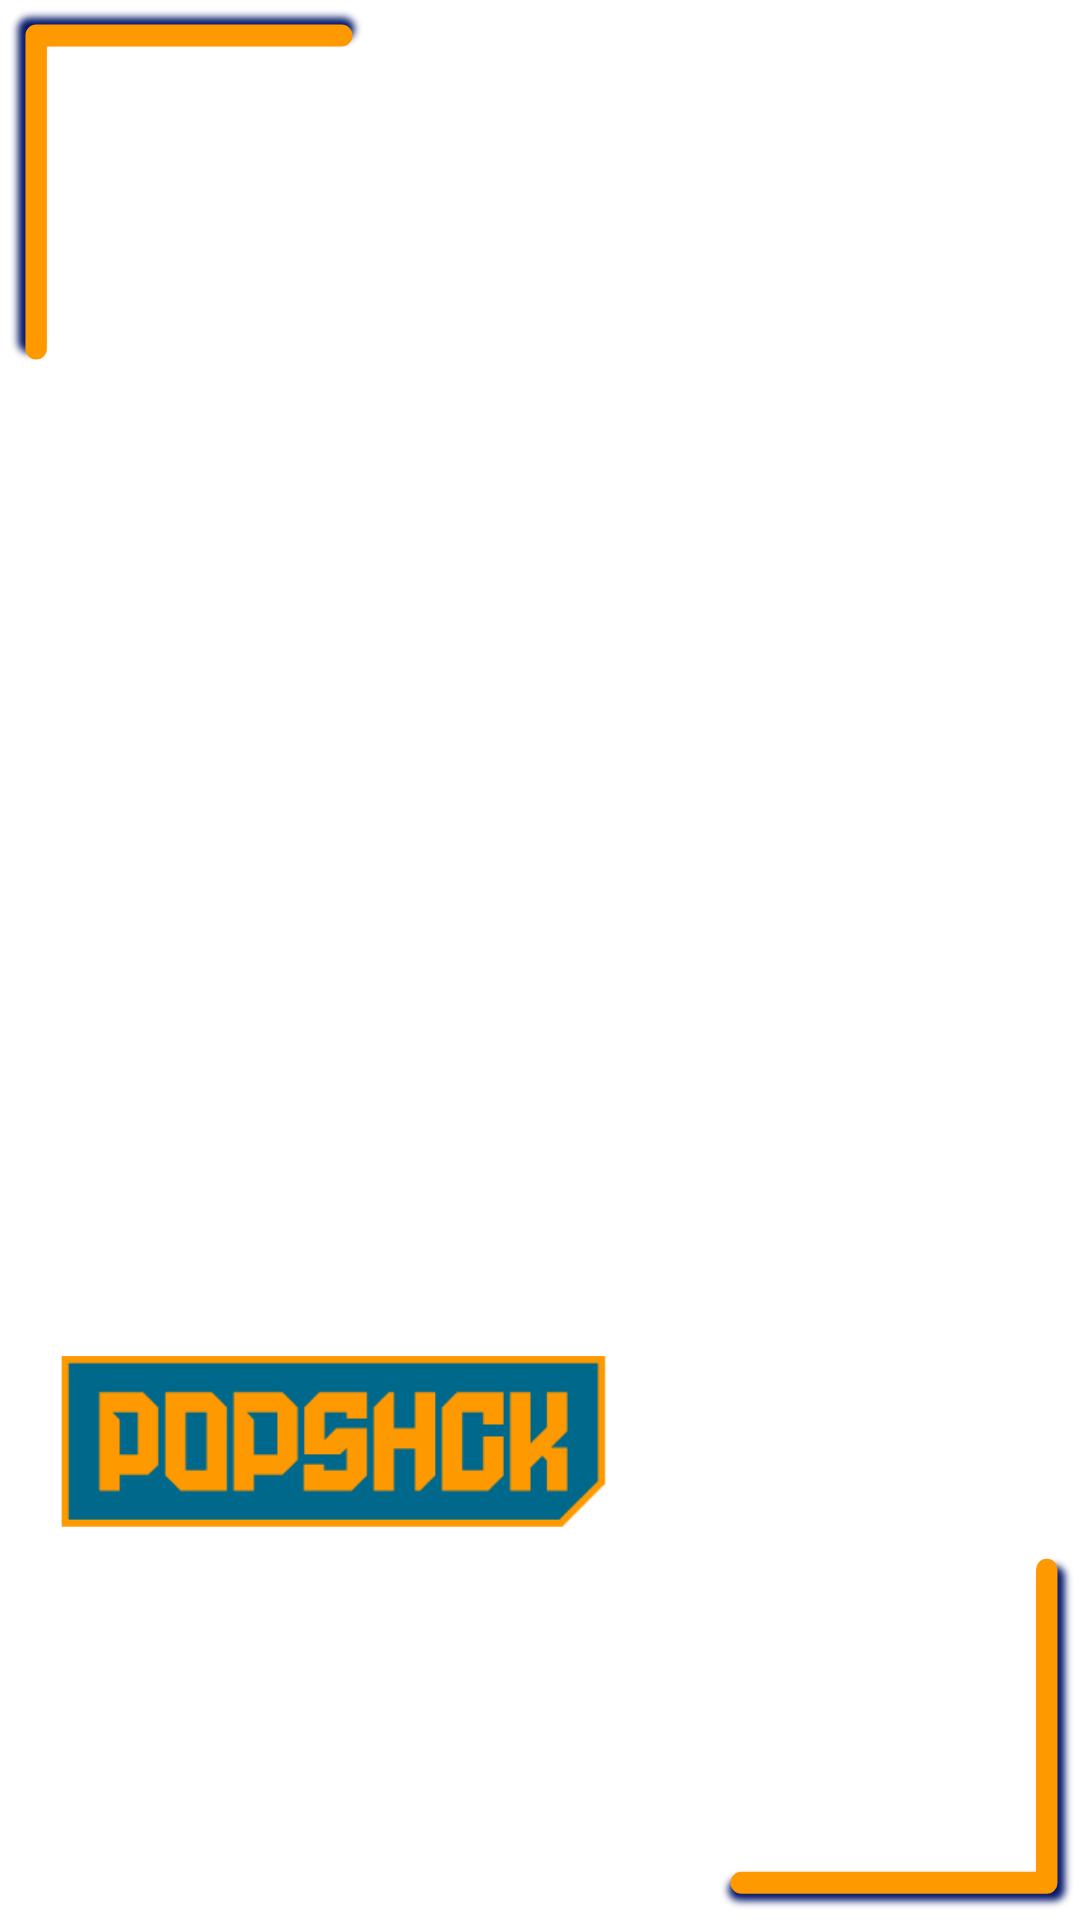
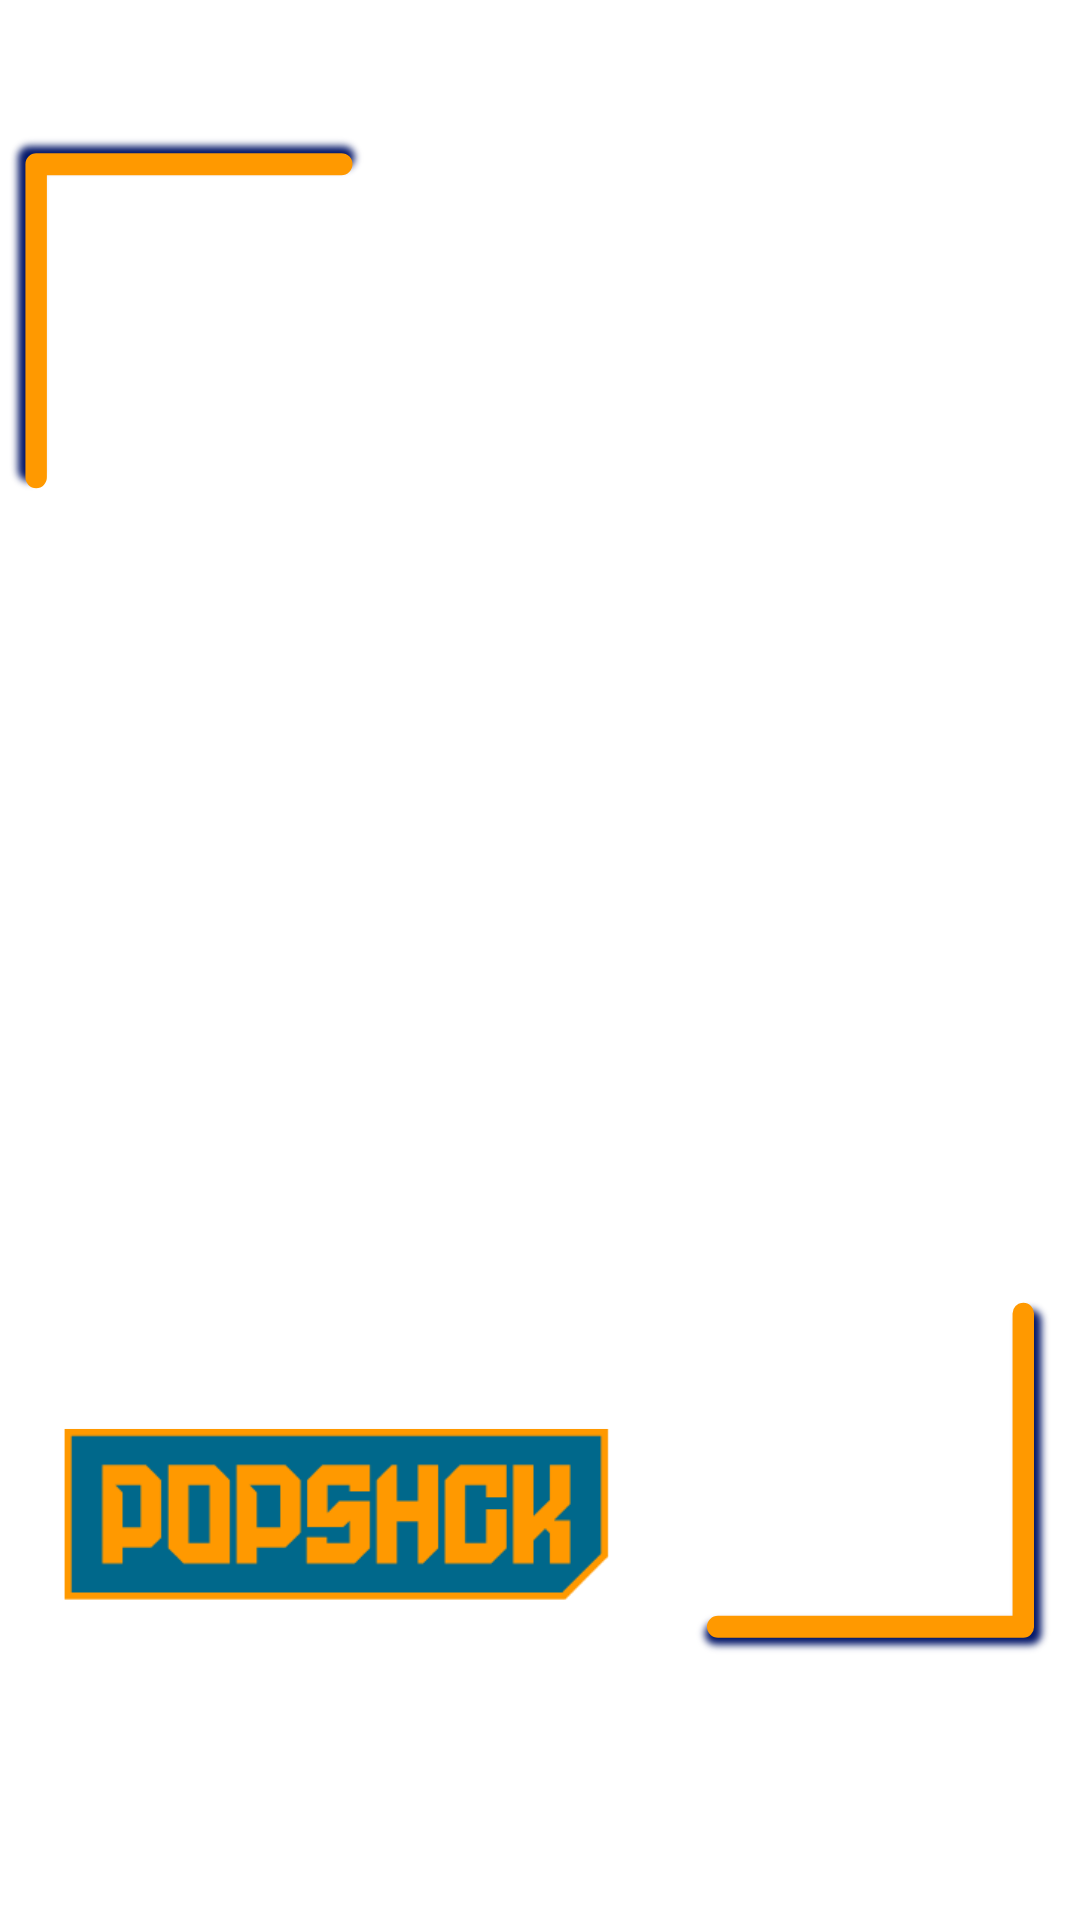
feat: wire Instagram Story posting + igStoryId into social pipeline
- publisher/index.ts: call postStoryToInstagram (9:16) concurrently
  alongside the existing feed post (1:1) — stories were generated and
  uploaded to WP but never posted to IG
- SocialPublishResult: add igStoryId field
- orchestrator.ts: persist igStoryId in SocialPost DB record and log
  IG feed + story status separately
- schema.prisma: add igStoryId column to SocialPost model
- Updated pillar story frame assets

Each pipeline run now posts 3 feed posts + 3 stories per pillar
(15 feed + 15 stories = 30 total IG posts per full run).

diff --git a/backend/src/agents/social_media/publisher/index.ts b/backend/src/agents/social_media/publisher/index.ts
@@ -16,6 +16,7 @@
 
 import {
   postToInstagram,
+  postStoryToInstagram,
   postToFacebook,
   postToX,
   postToTikTok,
@@ -24,6 +25,7 @@ import {
 
 export interface SocialPublishResult {
   igPostId?:      string;
+  igStoryId?:     string;
   fbPostId?:      string;
   xPostId?:       string;
   tiktokPostId?:  string;
@@ -44,7 +46,7 @@ export class SocialPublisher {
     caption:       string;
     articleUrl:    string;
   }): Promise<SocialPublishResult> {
-    const { postBuffer, storyBuffer, postImageUrl, caption, articleUrl } = params;
+    const { postBuffer, storyBuffer, postImageUrl, storyImageUrl, caption, articleUrl } = params;
 
     this.log('[SocialPublisher] Dispatching to all platforms concurrently…');
 
@@ -59,8 +61,9 @@ export class SocialPublisher {
     }
 
     // ── Concurrent platform dispatch ─────────────────────────────────────────
-    const [igResult, fbResult, xResult, tiktokResult] = await Promise.allSettled([
+    const [igFeedResult, igStoryResult, fbResult, xResult, tiktokResult] = await Promise.allSettled([
       postToInstagram({ imageUrl: postImageUrl, caption }),
+      postStoryToInstagram({ imageUrl: storyImageUrl }),
       postToFacebook({ imageUrl: postImageUrl, caption }),
       postToX({ imageBuffer: storyBuffer, caption, articleUrl }),
       videoBuffer
@@ -70,11 +73,18 @@ export class SocialPublisher {
 
     const result: SocialPublishResult = {};
 
-    if (igResult.status === 'fulfilled') {
-      result.igPostId = igResult.value;
-      this.log(`[SocialPublisher] ✓ Instagram posted → ID: ${igResult.value}`);
+    if (igFeedResult.status === 'fulfilled') {
+      result.igPostId = igFeedResult.value;
+      this.log(`[SocialPublisher] ✓ Instagram feed posted → ID: ${igFeedResult.value}`);
     } else {
-      this.log(`[SocialPublisher] ✗ Instagram failed: ${igResult.reason}`);
+      this.log(`[SocialPublisher] ✗ Instagram feed failed: ${igFeedResult.reason}`);
+    }
+
+    if (igStoryResult.status === 'fulfilled') {
+      result.igStoryId = igStoryResult.value;
+      this.log(`[SocialPublisher] ✓ Instagram story posted → ID: ${igStoryResult.value}`);
+    } else {
+      this.log(`[SocialPublisher] ✗ Instagram story failed: ${igStoryResult.reason}`);
     }
 
     if (fbResult.status === 'fulfilled') {
@@ -99,7 +109,7 @@ export class SocialPublisher {
     }
 
     const successCount = Object.keys(result).length;
-    this.log(`[SocialPublisher] Complete — ${successCount}/4 platforms succeeded`);
+    this.log(`[SocialPublisher] Complete — ${successCount}/5 platforms succeeded`);
 
     return result;
   }

diff --git a/backend/src/agents/social_media/orchestrator.ts b/backend/src/agents/social_media/orchestrator.ts
@@ -203,6 +203,7 @@ export class SocialMediaOrchestrator {
       status:        anyPosted ? 'POSTED' : 'FAILED',
       postedAt:      anyPosted ? new Date() : undefined,
       igPostId:      socialResult.igPostId,
+      igStoryId:     socialResult.igStoryId,
       fbPostId:      socialResult.fbPostId,
       xPostId:       socialResult.xPostId,
       tiktokPostId:  socialResult.tiktokPostId,
@@ -210,8 +211,8 @@ export class SocialMediaOrchestrator {
 
     this.log(
       `[SocialOrchestrator] ✓ Done for article ${articleId} — ` +
-      `IG:${!!socialResult.igPostId} FB:${!!socialResult.fbPostId} ` +
-      `X:${!!socialResult.xPostId} TikTok:${!!socialResult.tiktokPostId}`
+      `IG feed:${!!socialResult.igPostId} IG story:${!!socialResult.igStoryId} ` +
+      `FB:${!!socialResult.fbPostId} X:${!!socialResult.xPostId} TikTok:${!!socialResult.tiktokPostId}`
     );
   }
 
@@ -227,6 +228,7 @@ export class SocialMediaOrchestrator {
     status:        string;
     postedAt?:     Date;
     igPostId?:     string;
+    igStoryId?:    string;
     fbPostId?:     string;
     xPostId?:      string;
     tiktokPostId?: string;
